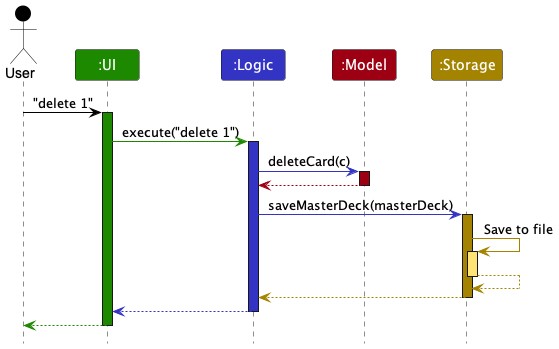
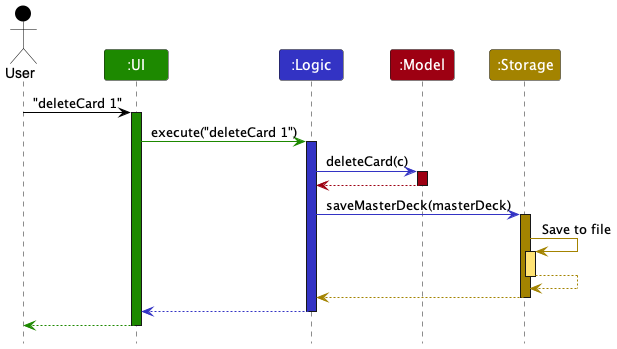
Update images and text

diff --git a/docs/DeveloperGuide.md b/docs/DeveloperGuide.md
@@ -53,7 +53,7 @@ The rest of the App consists of four components.
 
 **How the architecture components interact with each other**
 
-The *Sequence Diagram* below shows how the components interact with each other for the scenario where the user issues the command `delete 1`.
+The *Sequence Diagram* below shows how the components interact with each other for the scenario where the user issues the command `deleteCard 1`.
 
 <img src="images/ArchitectureSequenceDiagram.png" width="574" />
 
@@ -95,7 +95,7 @@ Here's a (partial) class diagram of the `Logic` component:
 
 How the `Logic` component works:
 1. When `Logic` is called upon to execute a  command, it uses the `MasterDeckParser` class (more precisely, a method within `MasterDeckParser` which depends on the current mode of the application) to parse the user command.
-2. This results in a `Command` object (more precisely, an object of one of its subclasses e.g., `AddCommand`) which is executed by the `LogicManager`.
+2. This results in a `Command` object (more precisely, an object of one of its subclasses e.g., `AddCardCommand`) which is executed by the `LogicManager`.
 3. The command can communicate with the `Model` when it is executed (e.g. to add a card).
 4. The result of the command execution is encapsulated as a `CommandResult` object which is returned back from `Logic`.
 
@@ -111,7 +111,7 @@ Here are the other classes in `Logic` (omitted from the class diagram above) tha
 <img src="images/ParserClasses.png" width="600"/>
 
 How the parsing works:
-* When called upon to parse a user command, the `MasterDeckParser` class parse the command differently based on the current mode (MAIN, DECK, REVIEW) of the application and creates an `XYZCommandParser` (`XYZ` is a placeholder for the specific command name e.g., `AddCardCommandParser`) which uses the other classes shown above to parse the user command and create a `XYZCommand` object (e.g., `AddCommand`) which the `MasterDeckParser` returns back as a `Command` object.
+* When called upon to parse a user command, the `MasterDeckParser` class parse the command differently based on the current mode (`MAIN_UNSELECTED`, `MAIN_SELECTED`, `REVIEW`) of the application and creates an `XYZCommandParser` (`XYZ` is a placeholder for the specific command name e.g., `AddCardCommandParser`) which uses the other classes shown above to parse the user command and create a `XYZCommand` object (e.g., `AddCardCommand`) which the `MasterDeckParser` returns back as a `Command` object.
 * All `XYZCommandParser` classes (e.g., `AddCardCommandParser`, `DeleteCardCommandParser`, ...) inherit from the `Parser` interface so that they can be treated similarly where possible e.g, during testing.
 
 ### Model component
